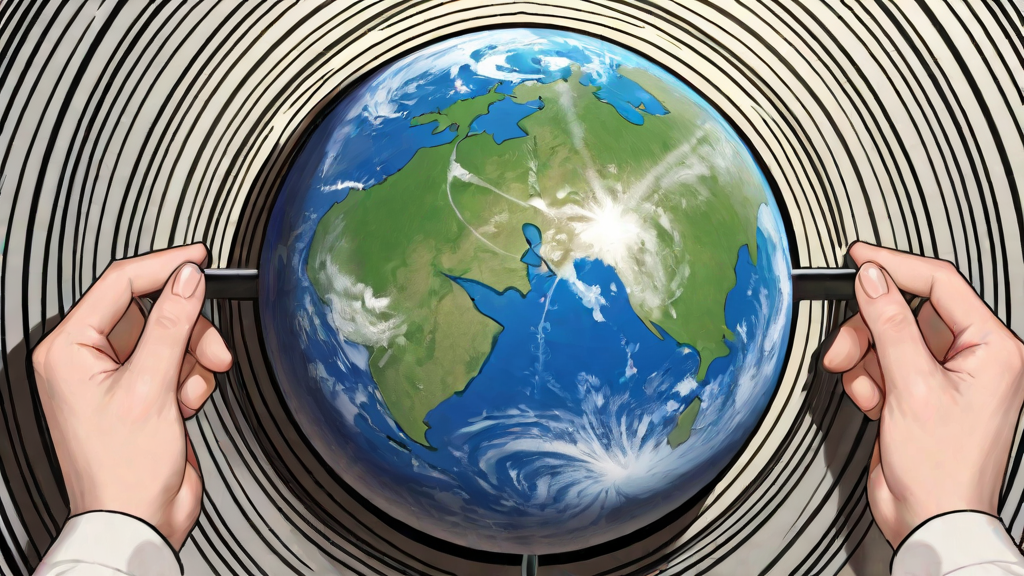
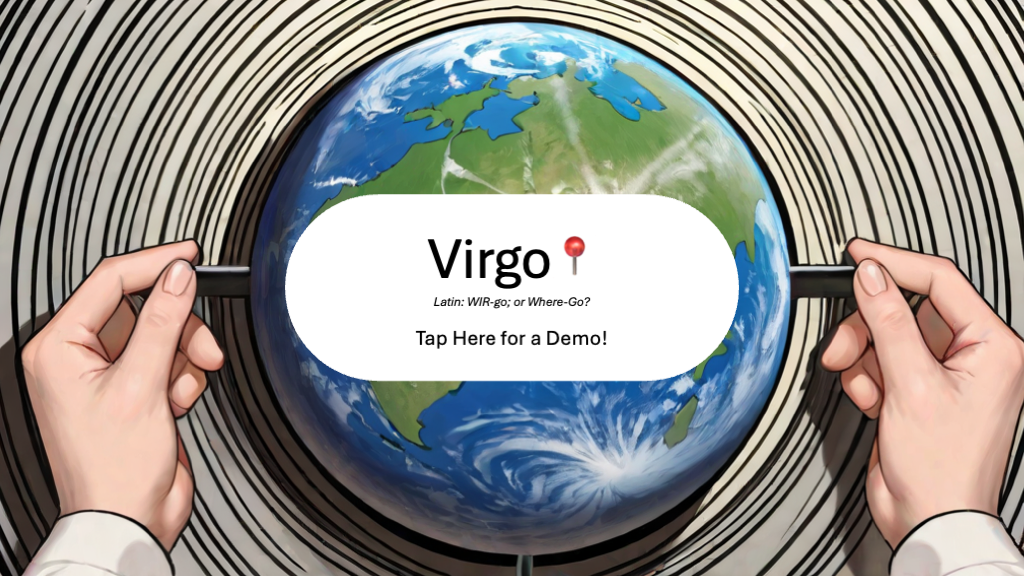
docs: update link to demo and details

diff --git a/README.md b/README.md
@@ -3,7 +3,7 @@
 
 **A browser JS library for approximating user location (and distance) based on timezone**
 
-![virgo](./docs/img/virgo.png)
+[![virgo](./docs/img/virgo.png)](https://virgo.tonz.io)
 
 ## Installation
 ```
@@ -84,7 +84,8 @@ Virgo approximates a user's location by looking their timezone's precomputed cen
 - *Privacy*: The user does not need to share their device GPS location or IP address to a third-party service.
 - *User Experience*: There is zero user interaction required for Virgo to work.
 - *Performance*: The library is lightweight and only has dependencies on native browser APIs.
-- *Latency*: No network requests are made, making it suitable for real-time applications where awaiting a ping to servers in different regions would be too slow.
+  - Just over ~100kb compared to libraries that use IP Location databases (at least few MB)
+- *Latency*: No network requests are made, making it suitable for real-time applications where awaiting a round trip ping (or three) to servers in different regions would be too slow.
 
 Of course this relies the user having their device timezone set correctly; which is a fair assumption in 2025.
 
